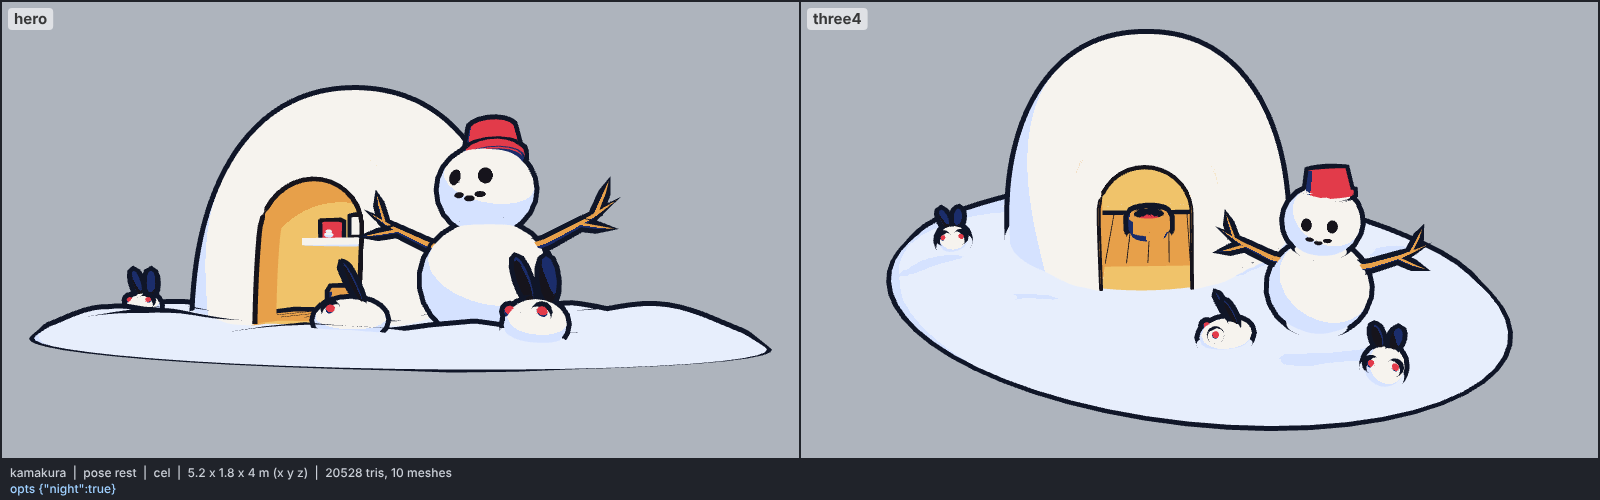
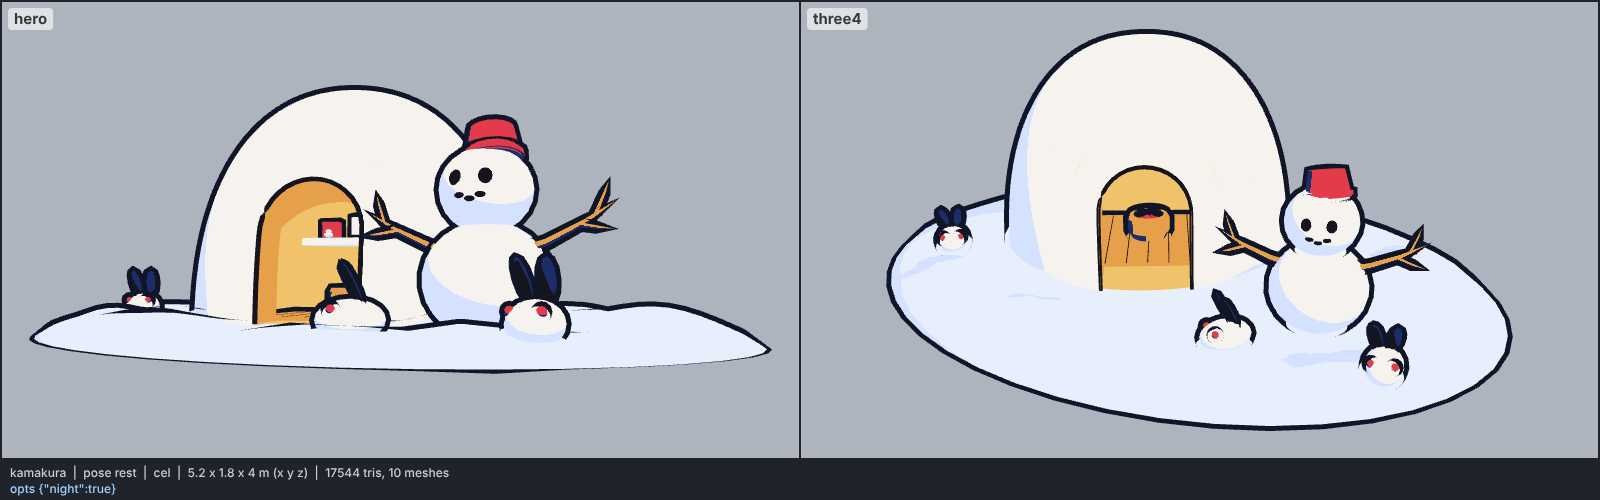
models: kamakura, trim to 17.5k triangles
Claude-Session: https://claude.ai/code/session_01RarBCdt4E1fNHHaUKaW5GL

diff --git a/models/kamakura.js b/models/kamakura.js
@@ -37,7 +37,7 @@
 //            the passage, the mat, the lantern and the coals switch to the script's practical colours (no emissive in
 //            the kit: a glow is a flat cel tone, as chochin's lit paper). Same script; the film's sky does the rest.
 //   snowman  true (default); false leaves the hut, the patch and the bunnies.
-// Budget: ~20.5k triangles (outer dome 6.5k, patch 4.4k), 10 meshes in either variant.
+// Budget: ~17.5k triangles (outer dome 5.4k, patch 2.7k), 10 meshes in either variant.
 // Colours (indigo, base / shade):
 //   snow      sclera #f6f3ee / moon #d5e2ff (warm white, cool moonlit shade) - hut, doorway ring, snowman, bunnies
 //   reveal    the same pair, no hull (the passage, the shelf, the mochi: inside the doorway's ink)
@@ -202,7 +202,7 @@ export function build(THREE, kit, colors = meta.colors, opts = {}) {
   const rim = (x, z) => { const q = Math.hypot(x / A, z / B); return Math.sqrt(Math.max(0, 1 - q ** 8)); };
   const h = (x, z) => hRaw(x, z) * rim(x, z);
   {
-    const K = 34, MM = 64, P = [], e = 1e-3;
+    const K = 28, MM = 48, P = [], e = 1e-3;
     for (let i = 0; i <= K; i++) {
       const row = [], q = i / K;
       for (let j = 0; j <= MM; j++) {
@@ -247,7 +247,7 @@ export function build(THREE, kit, colors = meta.colors, opts = {}) {
     });
   }
   const interior = night ? "insideLit" : "inside";
-  dome("snow", RO, HO, 0, 1, 34, 96);
+  dome("snow", RO, HO, 0, 1, 28, 96);
   dome(interior, RI, HI, FL, -1, 22, 72);
   // cavity floor
   {
@@ -337,7 +337,7 @@ export function build(THREE, kit, colors = meta.colors, opts = {}) {
     ell("snow", at([0, hy, 0]), [0.25, 0.23, 0.25], [0, yaw, 0], 12);
     // charcoal face on the head's front (+Z local)
     const onHead = (ex, ey, d = 0.0) => { const v = nrm([ex, ey, 1]); return at([v[0] * 0.25 * 0.97, hy + v[1] * 0.23 * 0.97, v[2] * 0.25 * 0.97 + d]); };
-    for (const s of [-1, 1]) ell("char", onHead(s * 0.36, 0.22), [0.038, 0.042, 0.022], [-0.2, yaw + s * 0.36, 0], 8);
+    for (const s of [-1, 1]) ell("char", onHead(s * 0.36, 0.22), [0.038, 0.042, 0.022], [-0.2, yaw + s * 0.36, 0], 6);
     for (const ex of [-0.24, 0, 0.24]) ell("char", onHead(ex, -0.3 + Math.abs(ex) * 0.35), [0.03, 0.016, 0.018], [0.3, yaw + ex, 0], 6);
     // the upturned bucket, tilted back and to its left
     lathe("red", at([0.03, hy + 0.16, -0.03]), [-0.22, yaw, 0.12], [[0, 0], [0.155, 0], [0.12, 0.18], [0, 0.18]], 18);
